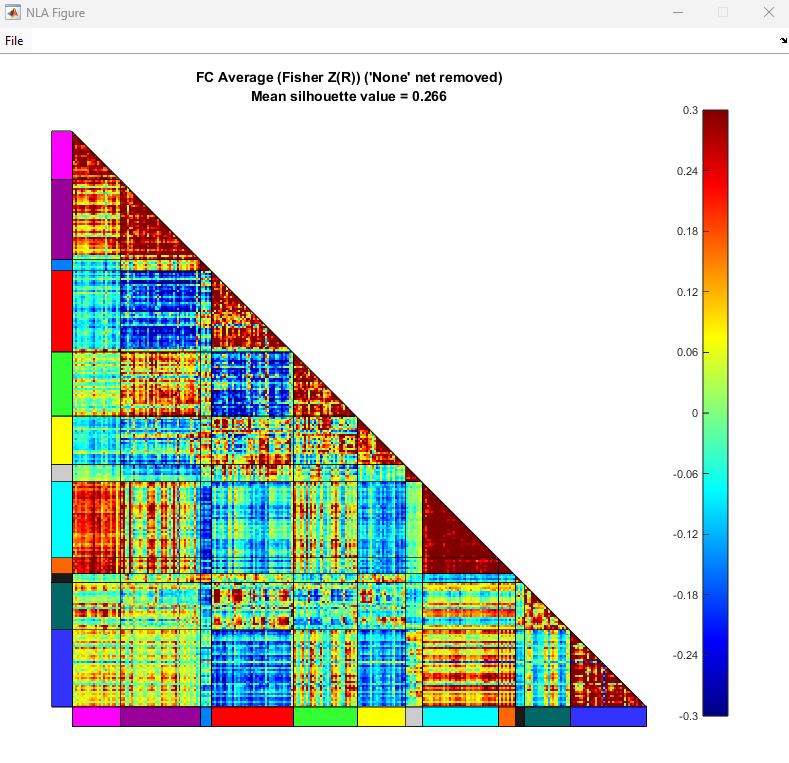
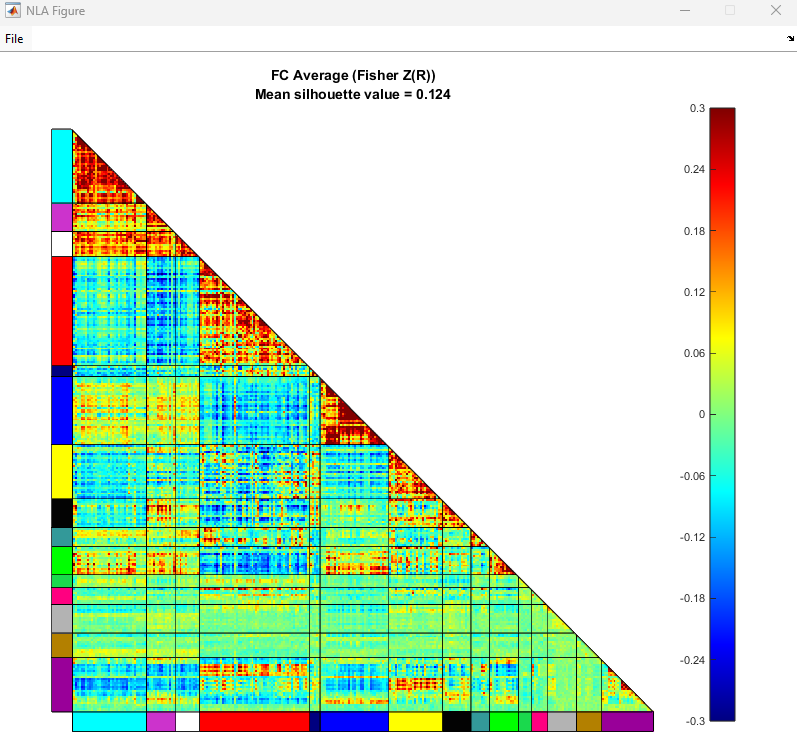
Update plots and citations

diff --git a/docs/source/quality_control.rst b/docs/source/quality_control.rst
@@ -61,13 +61,13 @@ Then clicking the ``Check Head Motion`` will display quality plots relating to F
 View Silhouette Coefficient
 ^^^^^^^^^^^^^^^^^^^^^^^^^^^^^^^^^^^^^^^^^^^
 
-The user can generate a triangle plot for the silhouette coefficent for information on how well the atlas model fits the connectivity data.
+The user can generate a triangle plot for the silhouette coefficent :cite:p:`RousseeuwPJ` for information on how well the atlas model fits the connectivity data.
 If there is a network the user would like to exclude from the silhouette coefficient calculations (typically a network labeled 'None' or 'Unassigned'), the user can select that network for removal via the ``Unspecified/None "network"`` dropdown.
 To keep all networks provided in the original atlas, the user can set the dropdown to the 'N/A' option.
 
 .. figure:: _static/silhouette_coefficient_plot.png
 
-    Example normality plot
+    Example silhouette coefficient plot
 
 Test Normality
 ^^^^^^^^^^^^^^^^^^^^^^^^^^^^^^^^^^^^^^^^^^^

diff --git a/docs/source/sandwich_estimator.rst b/docs/source/sandwich_estimator.rst
@@ -59,7 +59,7 @@ The current supported options are:
 * Homoskedastic (effectively an Ordinary Least Squares model)
 * Heteroskedastic
 * Unconstrained Blocks
-* Guillaume (implements model described in Guillaume paper)
+* Guillaume :cite:p:`GuillaumeB`
 
 Selecting either ``Unconstrained Blocks`` or ``Guillaume`` will enable the group variable controls towards the bottom of the GUI.
 